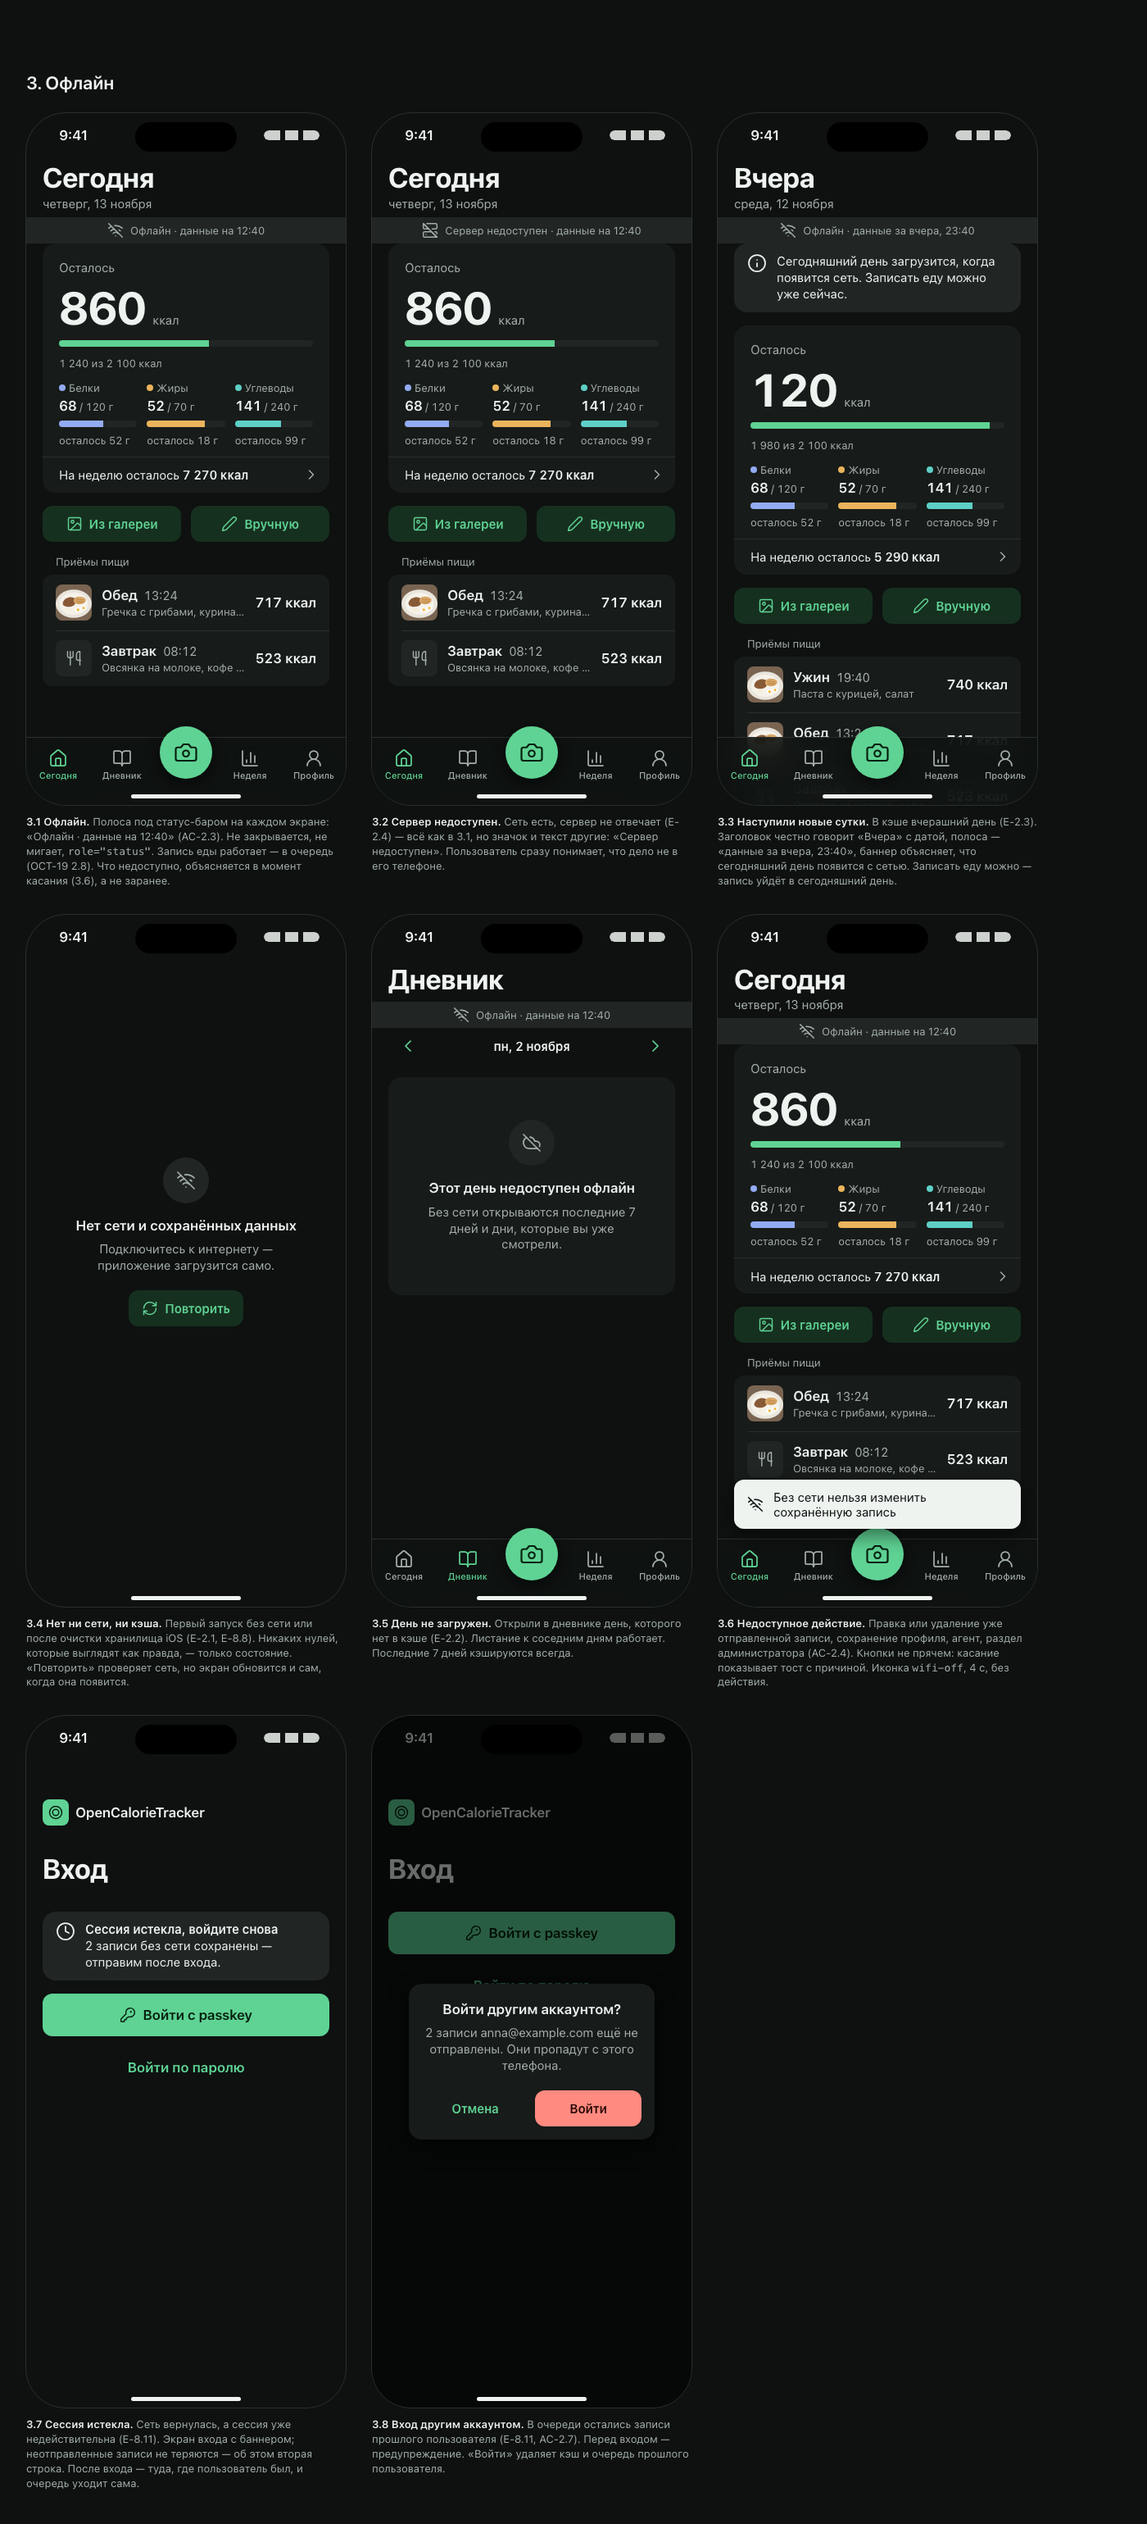
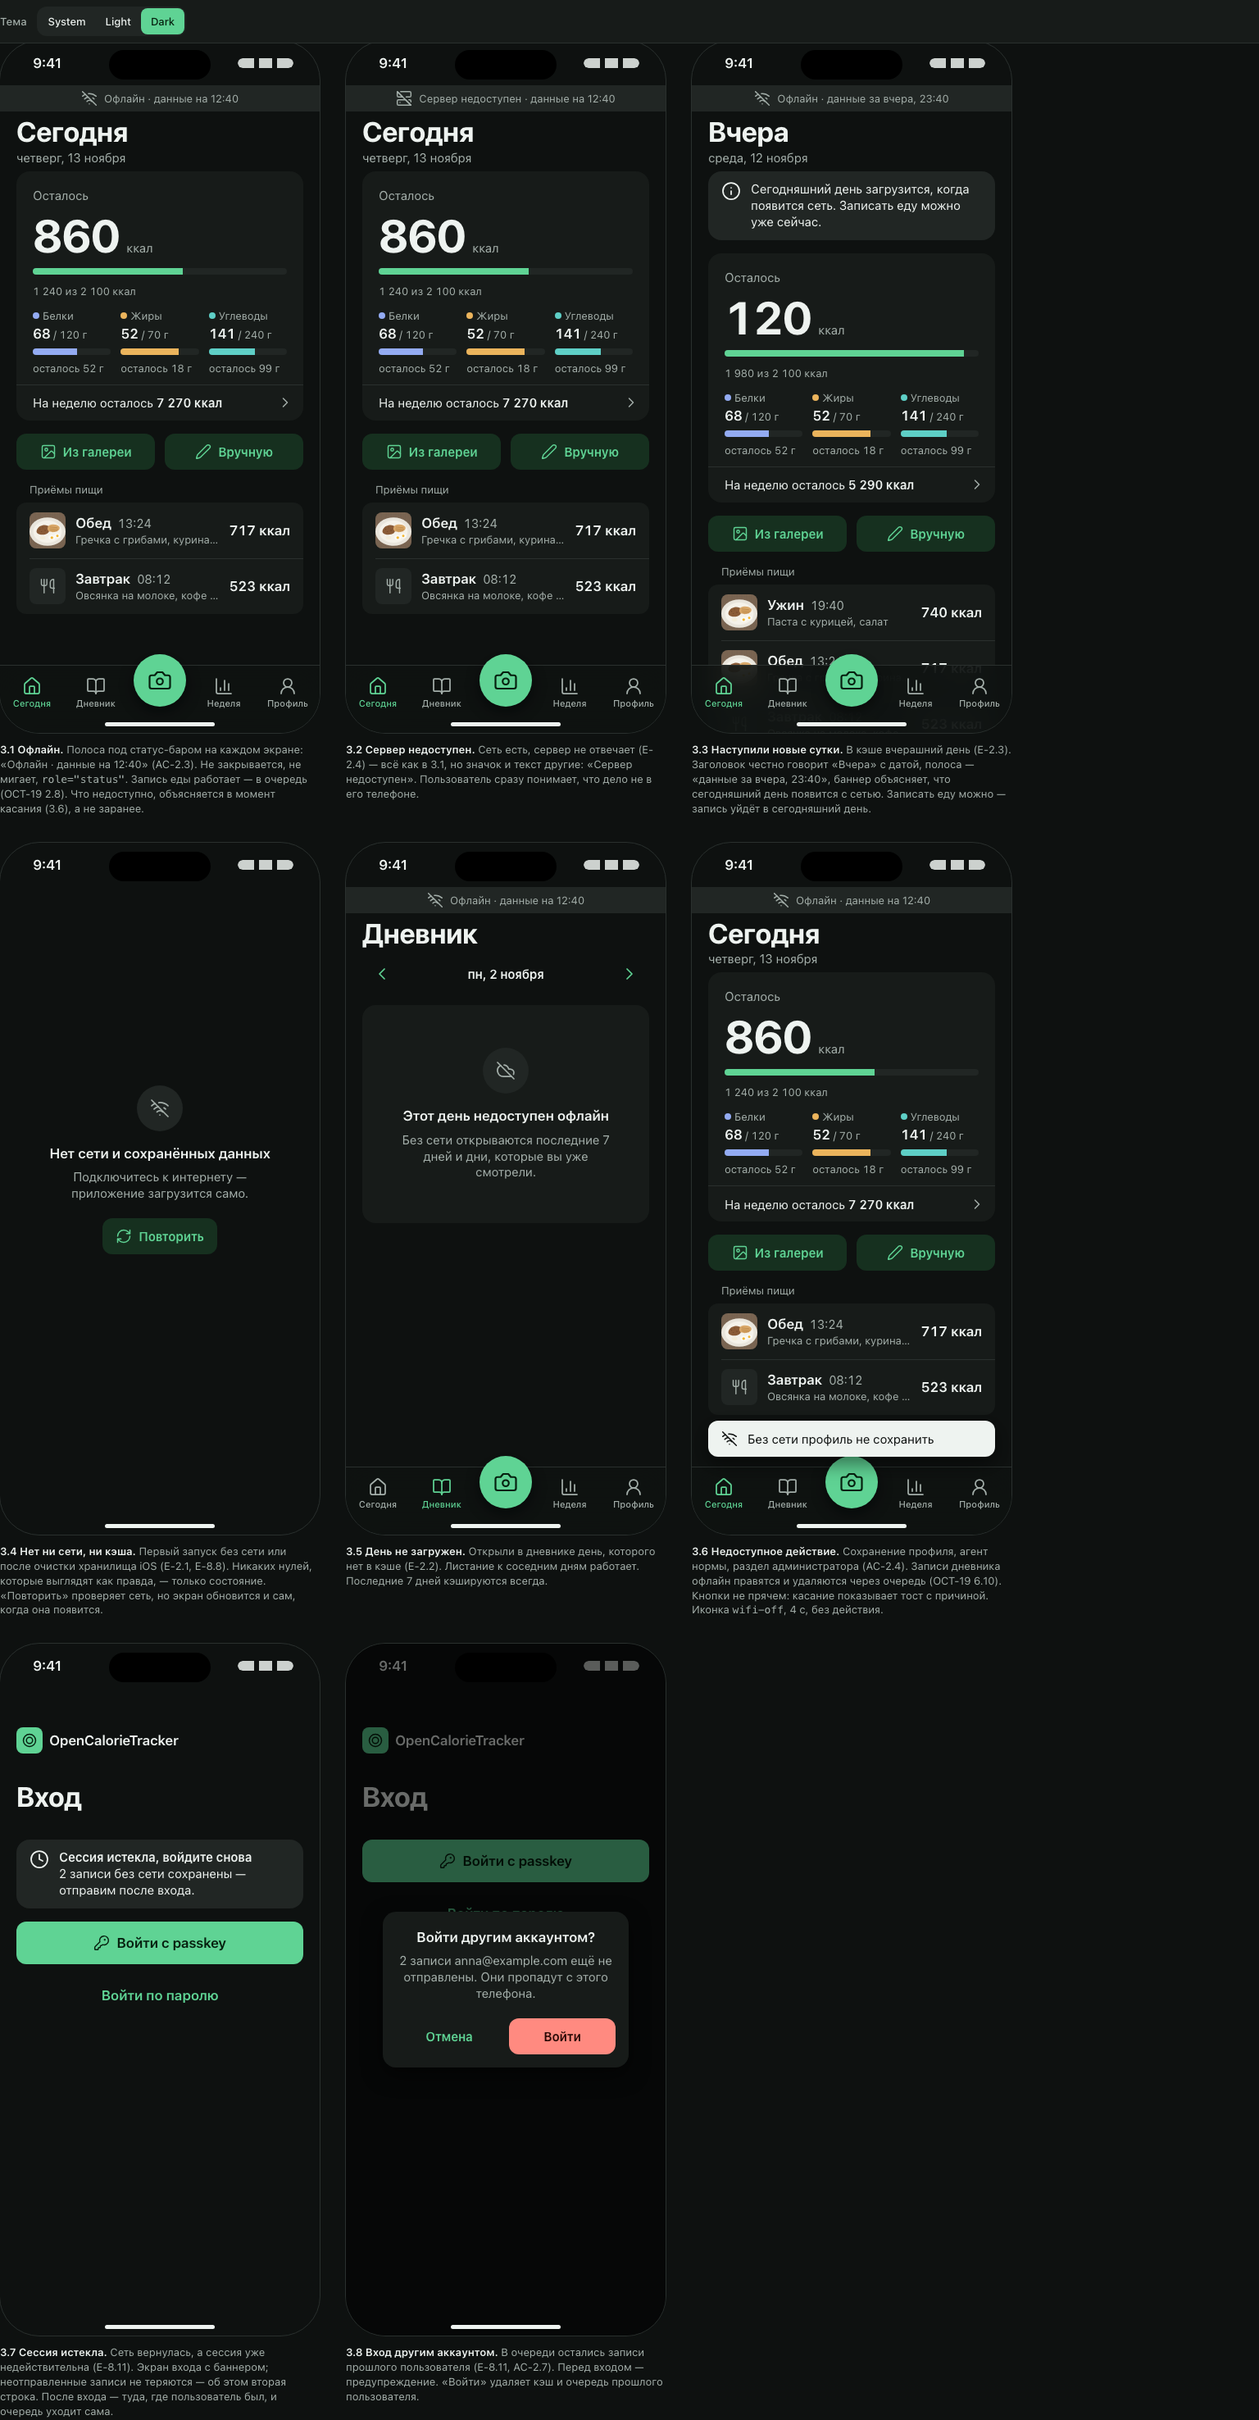
OCT-25 Move offline bar above the screen title; offline diary edits per OCT-19

diff --git a/docs/design/oct-25/prototype.html b/docs/design/oct-25/prototype.html
@@ -802,7 +802,7 @@ const totals = (k='717', p=68, f=31, c=39, thumb=PHOTO) => `<div class="totals">
 const estimate = `<div class="foot-note">${I('spark','sm')}<span>Оценка ИИ по фото — проверьте вес. Ккал и БЖУ пересчитаются сами.</span></div>`;
 const saveBar = (btn=`<button class="btn btn-primary">Сохранить</button>`, note='') => `<div class="bottom bar">${note}${btn}</div>`;
 function editScreen({title='Сегодня, 13:24', meal='Обед', dishes, top='', note=estimate, totalsHtml=totals(), bar=saveBar(), extra=''}){
-  return `${nav(title)}${top}<div class="content"><div class="pad stack">${totalsHtml}${seg(meal)}${note}</div>
+  return `${top}${nav(title)}<div class="content"><div class="pad stack">${totalsHtml}${seg(meal)}${note}</div>
     <div class="pad"><div class="group">${dishes}</div><div class="add-row">${I('plus','sm')}Добавить блюдо вручную</div></div></div>${bar}${extra}`;
 }
 
@@ -856,7 +856,7 @@ const ST = {
 };
 const mealsGroup = (rows, h='Приёмы пищи', right='') => `<div><div class="sec-h"><span>${h}</span><span class="num">${right}</span></div><div class="group">${rows}</div></div>`;
 function todayScreen({card=kcalCard(), meals=mealsGroup(M.lunch+M.bf), top='', extra='', invite=''}={}){
-  return `<div class="large-title">Сегодня<span class="date">четверг, 13 ноября</span></div>${top}<div class="content"><div class="pad stack">${invite}${card}${quick}${meals}</div></div>${tabbar('Сегодня')}${extra}`;
+  return `${top}<div class="large-title">Сегодня<span class="date">четверг, 13 ноября</span></div><div class="content"><div class="pad stack">${invite}${card}${quick}${meals}</div></div>${tabbar('Сегодня')}${extra}`;
 }
 const emptyMeals = `<div class="card" style="align-items:center;text-align:center;gap:var(--space-2)"><span class="s-ic" style="width:56px;height:56px;border-radius:50%;display:grid;place-items:center;background:var(--color-surface-2);color:var(--color-text-secondary)">${I('camera')}</span><span class="t-headline">Сегодня пока пусто</span><span class="t-sub muted" style="max-width:30ch">Сфотографируйте еду — калории и БЖУ посчитаем сами.</span></div>`;
 const invite = `<div class="invite">${I('target')}<span>Задайте норму — покажем, сколько осталось</span><span class="go">Задать</span></div>`;
@@ -914,8 +914,8 @@ document.getElementById('install-row').innerHTML = [
 /* ---------- 3. Offline ---------- */
 const serverBar = `<div class="offline-bar" role="status">${I('server-off','sm')}Сервер недоступен · данные на 12:40</div>`;
 const noCache = `<div class="content" style="justify-content:center"><div class="state" role="alert"><span class="s-ic">${I('wifi-off')}</span><span class="t-headline">Нет сети и сохранённых данных</span><p class="t-sub muted">Подключитесь к интернету — приложение загрузится само.</p><button class="btn btn-tonal btn-sm">${I('refresh','sm')}Повторить</button></div></div>`;
-const staleToday = `<div class="large-title">Вчера<span class="date">среда, 12 ноября</span></div>${offBar('Офлайн · данные за вчера, 23:40')}<div class="content"><div class="pad stack"><div class="banner notice" role="status">${I('info')}<div>Сегодняшний день загрузится, когда появится сеть. Записать еду можно уже сейчас.</div></div>${kcalCard({eaten:1980, weekVal:5290})}${quick}${mealsGroup(meal({type:'Ужин',time:'19:40',sub:'Паста с курицей, салат',k:740})+M.lunch+M.bf)}</div></div>${tabbar('Сегодня')}`;
-const diaryOff = `<div class="title-row"><div class="large-title">Дневник</div></div>${offBar()}<div class="content"><div class="pad stack"><div class="seg" role="group" aria-label="День" style="grid-template-columns:auto 1fr auto;grid-auto-flow:row;background:transparent"><span style="color:var(--color-accent);width:var(--tap-min)">${I('chev-l')}</span><span style="color:var(--color-text);font-weight:600">пн, 2 ноября</span><span style="color:var(--color-accent);width:var(--tap-min)">${I('chev-r')}</span></div><div class="card"><div class="state"><span class="s-ic">${I('cloud-off')}</span><span class="t-headline">Этот день недоступен офлайн</span><p class="t-sub muted">Без сети открываются последние 7 дней и дни, которые вы уже смотрели.</p></div></div></div></div>${tabbar('Дневник')}`;
+const staleToday = `${offBar('Офлайн · данные за вчера, 23:40')}<div class="large-title">Вчера<span class="date">среда, 12 ноября</span></div><div class="content"><div class="pad stack"><div class="banner notice" role="status">${I('info')}<div>Сегодняшний день загрузится, когда появится сеть. Записать еду можно уже сейчас.</div></div>${kcalCard({eaten:1980, weekVal:5290})}${quick}${mealsGroup(meal({type:'Ужин',time:'19:40',sub:'Паста с курицей, салат',k:740})+M.lunch+M.bf)}</div></div>${tabbar('Сегодня')}`;
+const diaryOff = `${offBar()}<div class="title-row"><div class="large-title">Дневник</div></div><div class="content"><div class="pad stack"><div class="seg" role="group" aria-label="День" style="grid-template-columns:auto 1fr auto;grid-auto-flow:row;background:transparent"><span style="color:var(--color-accent);width:var(--tap-min)">${I('chev-l')}</span><span style="color:var(--color-text);font-weight:600">пн, 2 ноября</span><span style="color:var(--color-accent);width:var(--tap-min)">${I('chev-r')}</span></div><div class="card"><div class="state"><span class="s-ic">${I('cloud-off')}</span><span class="t-headline">Этот день недоступен офлайн</span><p class="t-sub muted">Без сети открываются последние 7 дней и дни, которые вы уже смотрели.</p></div></div></div></div>${tabbar('Дневник')}`;
 const signIn = (banner) => `<div class="content" style="padding-top:var(--space-12)"><div class="pad stack"><div class="brand"><span class="mark">${I('plate','sm')}</span>OpenCalorieTracker</div><div class="large-title" style="padding:var(--space-4) 0">Вход</div>${banner}<button class="btn btn-primary">${I('key','sm')}Войти с passkey</button><button class="btn btn-plain">Войти по паролю</button></div></div>`;
 document.getElementById('offline-row').innerHTML = [
   frame('3.1','Офлайн','Полоса под статус-баром на каждом экране: «Офлайн · данные на 12:40» (AC-2.3). Не закрывается, не мигает, <code>role="status"</code>. Запись еды работает — в очередь (OCT-19 2.8). Что недоступно, объясняется в момент касания (3.6), а не заранее.', todayScreen({top:offBar(), card:kcalCard({eaten:1240})})),
@@ -923,7 +923,7 @@ document.getElementById('offline-row').innerHTML = [
   frame('3.3','Наступили новые сутки','В кэше вчерашний день (E-2.3). Заголовок честно говорит «Вчера» с датой, полоса — «данные за вчера, 23:40», баннер объясняет, что сегодняшний день появится с сетью. Записать еду можно — запись уйдёт в сегодняшний день.', staleToday),
   frame('3.4','Нет ни сети, ни кэша','Первый запуск без сети или после очистки хранилища iOS (E-2.1, E-8.8). Никаких нулей, которые выглядят как правда, — только состояние. «Повторить» проверяет сеть, но экран обновится и сам, когда она появится.', noCache),
   frame('3.5','День не загружен','Открыли в дневнике день, которого нет в кэше (E-2.2). Листание к соседним дням работает. Последние 7 дней кэшируются всегда.', diaryOff),
-  frame('3.6','Недоступное действие','Правка или удаление уже отправленной записи, сохранение профиля, агент, раздел администратора (AC-2.4). Кнопки не прячем: касание показывает тост с причиной. Иконка <code>wifi-off</code>, 4 с, без действия.', todayScreen({top:offBar(), extra:toast('Без сети нельзя изменить сохранённую запись','', 'wifi-off')})),
+  frame('3.6','Недоступное действие','Сохранение профиля, агент нормы, раздел администратора (AC-2.4). Записи дневника офлайн правятся и удаляются через очередь (OCT-19 6.10). Кнопки не прячем: касание показывает тост с причиной. Иконка <code>wifi-off</code>, 4 с, без действия.', todayScreen({top:offBar(), extra:toast('Без сети профиль не сохранить','', 'wifi-off')})),
   frame('3.7','Сессия истекла','Сеть вернулась, а сессия уже недействительна (E-8.11). Экран входа с баннером; неотправленные записи не теряются — об этом вторая строка. После входа — туда, где пользователь был, и очередь уходит сама.', signIn(`<div class="banner notice" role="status">${I('clock')}<div><div class="b-title">Сессия истекла, войдите снова</div>2 записи без сети сохранены — отправим после входа.</div></div>`)),
   frame('3.8','Вход другим аккаунтом','В очереди остались записи прошлого пользователя (E-8.11, AC-2.7). Перед входом — предупреждение. «Войти» удаляет кэш и очередь прошлого пользователя.', signIn('') + alertBox('Войти другим аккаунтом?', '2 записи anna@example.com ещё не отправлены. Они пропадут с этого телефона.', b('Отмена')+b('Войти','btn-danger'))),
 ].join('');
@@ -974,7 +974,7 @@ const SL = {
 const kv = rows => `<div class="group">${rows.map(([k,v])=>`<div class="cell"><span class="main"><span>${k}</span></span><span class="val">${v}</span></div>`).join('')}</div>`;
 const checkBtn = (busy=false) => `<button class="btn btn-tonal" ${busy?'aria-busy="true"':''}>${busy?'<span class="spinner"></span>Проверяем…':`${I('refresh','sm')}Проверить сейчас`}</button><p class="check-note">Отправит короткий тестовый запрос — это потратит немного квоты.</p>`;
 const privacy = ({to='Google Gemini', gemini=true, link='Политика данных Google'}={}) => `<div class="group-h" style="margin-top:var(--space-2)">Куда уходят данные</div><div class="card" style="gap:var(--space-3)"><p class="t-sub">Фото еды и сообщения агента нормы отправляются <b>${to}</b> для обработки. Фото без EXIF и геолокации. Как данные хранятся и используются, решает провайдер.</p>${gemini?`<div class="banner warning" role="note">${I('alert')}<div><div class="b-title">Бесплатный тариф Gemini</div>Google может использовать запросы для улучшения своих продуктов. Чтобы этого избежать — платный тариф, другой провайдер, локальная модель или работа без ИИ.</div></div>`:''}${link?`<span class="link t-sub ext">${link}${I('ext')}</span>`:''}</div>`;
-const provScreen = (inner, top='') => `${provNav}${top}<div class="content modal"><div class="pad stack">${inner}</div></div>`;
+const provScreen = (inner, top='') => `${top}${provNav}<div class="content modal"><div class="pad stack">${inner}</div></div>`;
 const okScreen = (busy=false) => provScreen(`${head('spark','', 'Google Gemini', SL.ok)}<p class="t-foot muted">По последнему запросу · сегодня в 12:40</p>${kv([['Модель','<span class="mono">gemini-2.5-flash</span>'],['Ключ','задан']])}${checkBtn(busy)}${privacy()}`);
 const ENVS = `AI_PROVIDER=google
 AI_MODEL=gemini-2.5-flash
